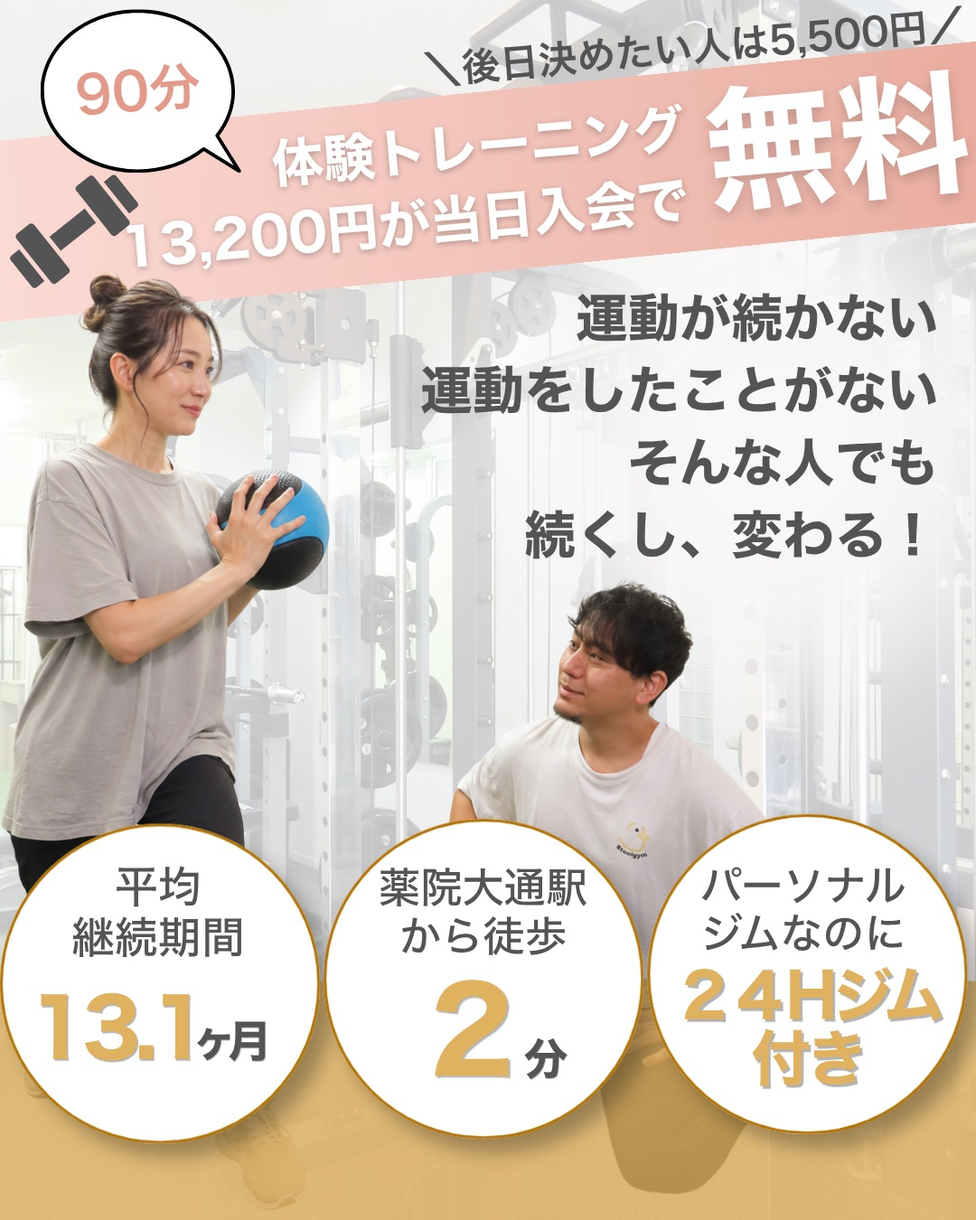
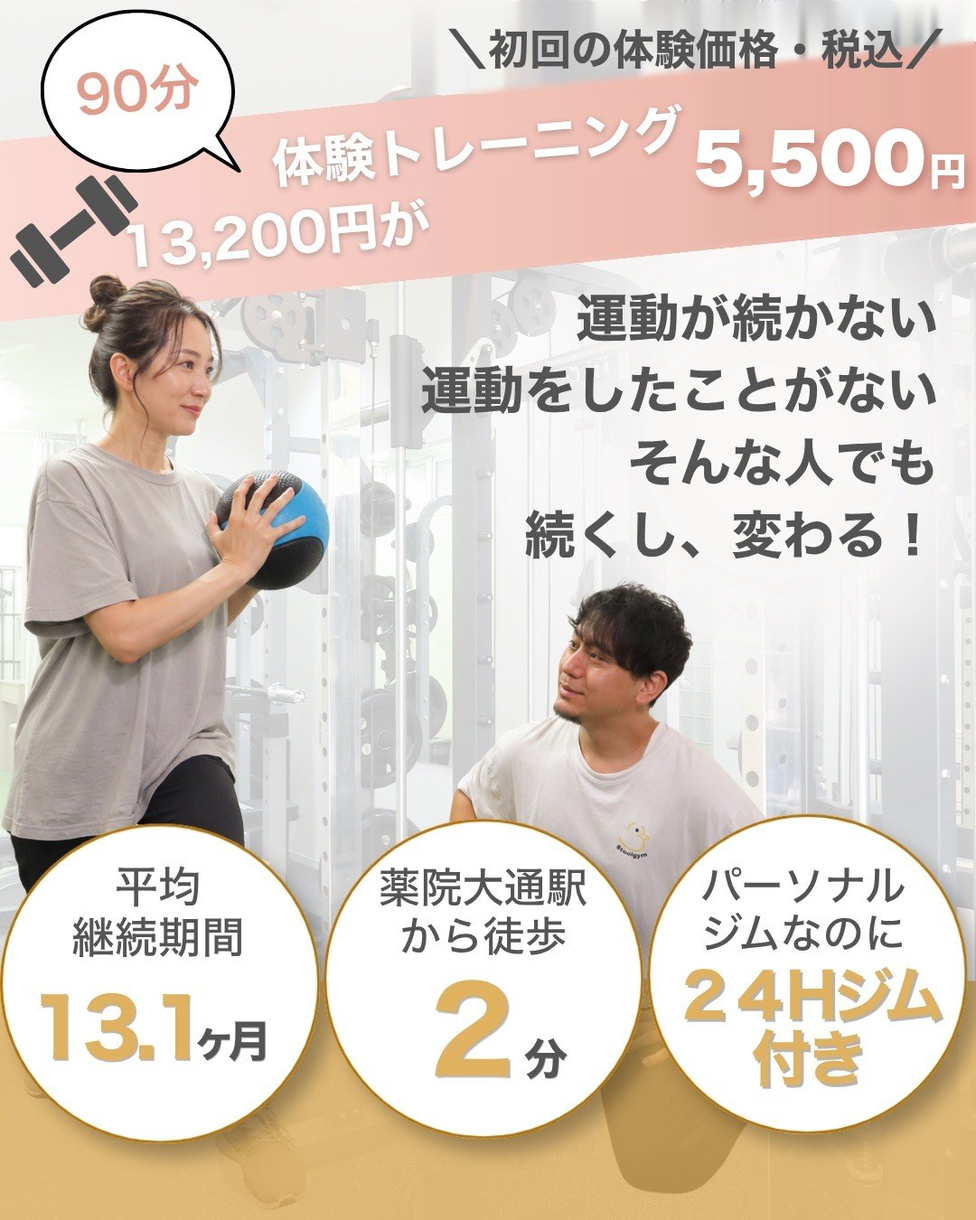
全LPから当日入会で体験0円の訴求を削除（beginner FV画像の帯も初回5,500円に差し替え）

Changed region(s): [[0.4278, 0.0, 1.0, 0.2178]]

diff --git a/posture-yakuin.html b/posture-yakuin.html
@@ -282,8 +282,8 @@ footer{background:#1A1A1A;padding:36px var(--sp) 20px;text-align:center}
 
 <!-- ══ STICKY BAR ══ -->
 <div id="sbar">
-  <a href="https://instagram.kanzashi.com/l/1uyf95d0BYo/kirei" class="sbar-btn">体験を予約する（当日入会で0円）</a>
-  <p class="sbar-sub">当日入会で0円 / 相談だけでもOK</p>
+  <a href="https://instagram.kanzashi.com/l/1uyf95d0BYo/kirei" class="sbar-btn">体験を予約する（90分 5,500円）</a>
+  <p class="sbar-sub">初回90分 5,500円 / 相談だけでもOK</p>
 </div>
 
 <!-- ══ NAV ══ -->
@@ -314,7 +314,7 @@ footer{background:#1A1A1A;padding:36px var(--sp) 20px;text-align:center}
       <a href="#offer">体験について <span>→</span></a>
       <a href="#access">アクセス <span>→</span></a>
     </nav>
-    <a href="https://instagram.kanzashi.com/l/1uyf95d0BYo/kirei" class="btn-main" style="margin-bottom:12px">体験を予約する（当日入会で0円）</a>
+    <a href="https://instagram.kanzashi.com/l/1uyf95d0BYo/kirei" class="btn-main" style="margin-bottom:12px">体験を予約する（90分 5,500円）</a>
   </div>
 </div>
 <div class="drawer-overlay" id="drawerOverlay"></div>
@@ -328,7 +328,7 @@ footer{background:#1A1A1A;padding:36px var(--sp) 20px;text-align:center}
       <div class="hero-trust-item"><strong>91%</strong><span>体験→入会率</span></div>
       <div class="hero-trust-item"><strong>14<span style="font-size:12px">ヶ月</span></strong><span>平均継続期間</span></div>
     </div>
-    <a href="https://instagram.kanzashi.com/l/1uyf95d0BYo/kirei" class="btn-main" style="max-width:360px" id="heroCta">体験を予約する（当日入会で0円）</a>
+    <a href="https://instagram.kanzashi.com/l/1uyf95d0BYo/kirei" class="btn-main" style="max-width:360px" id="heroCta">体験を予約する（90分 5,500円）</a>
     <p class="btn-sub">無理な勧誘なし　／　当日キャンセルOK　／　相談だけでもOK</p>
     <span class="scroll-arrow" aria-hidden="true">&#8595;</span>
   </div>
@@ -385,7 +385,7 @@ footer{background:#1A1A1A;padding:36px var(--sp) 20px;text-align:center}
       <p class="story-close">そう感じているのは、<br>あなただけじゃありません。</p>
     </div>
     <div style="margin-top:40px;text-align:center">
-      <a href="https://instagram.kanzashi.com/l/1uyf95d0BYo/kirei" class="btn-main">体験を予約する（当日入会で0円）</a>
+      <a href="https://instagram.kanzashi.com/l/1uyf95d0BYo/kirei" class="btn-main">体験を予約する（90分 5,500円）</a>
       <p style="font-size:11px;color:#999999;text-align:center;margin-top:6px">予約フォームに入力するだけ（約1分）→ 日時確定 → 来店</p>
       <p class="btn-sub">無理な勧誘なし　／　当日キャンセルOK　／　相談だけでもOK</p>
     </div>
@@ -605,7 +605,7 @@ footer{background:#1A1A1A;padding:36px var(--sp) 20px;text-align:center}
   <div class="cta-block-inner">
     <p class="urgency-label">毎月5名限定・体験受付中</p>
     <p style="font-size:11px;color:#999;text-align:center;margin:0 auto 16px;letter-spacing:0.02em;">無理な勧誘なし &nbsp;／&nbsp; 当日キャンセルOK &nbsp;／&nbsp; 相談だけでもOK</p>
-    <a href="https://instagram.kanzashi.com/l/1uyf95d0BYo/kirei" class="btn-main">体験を予約する（当日入会で0円）</a>
+    <a href="https://instagram.kanzashi.com/l/1uyf95d0BYo/kirei" class="btn-main">体験を予約する（90分 5,500円）</a>
     <p style="font-size:11px;color:#999999;text-align:center;margin-top:6px">予約フォームに入力するだけ（約1分）→ 日時確定 → 来店</p>
   </div>
 </div>
@@ -693,10 +693,6 @@ footer{background:#1A1A1A;padding:36px var(--sp) 20px;text-align:center}
         <span style="font-size:0.85rem;color:#999;">（税込）</span>
       </div>
     </div>
-    <div class="offer-free">
-      さらに、<strong>体験当日にご入会の方は</strong><br>
-      体験トレーニング料金（5,500円）が<br><strong>全額0円</strong>になります。
-    </div>
     <div class="offer-checks">
       <div class="offer-check">90分マンツーマン指導</div>
       <div class="offer-check">初回で姿勢分析・動作チェックあり</div>
@@ -707,7 +703,7 @@ footer{background:#1A1A1A;padding:36px var(--sp) 20px;text-align:center}
       <div class="offer-check">相談だけでもOK</div>
     </div>
     <p style="font-size:11px;color:#999;text-align:center;margin:0 auto 16px;letter-spacing:0.02em;">無理な勧誘なし &nbsp;／&nbsp; 当日キャンセルOK &nbsp;／&nbsp; 相談だけでもOK</p>
-    <a href="https://instagram.kanzashi.com/l/1uyf95d0BYo/kirei" class="btn-main">体験を予約する（当日入会で0円）</a>
+    <a href="https://instagram.kanzashi.com/l/1uyf95d0BYo/kirei" class="btn-main">体験を予約する（90分 5,500円）</a>
     <p style="font-size:11px;color:#999999;text-align:center;margin-top:6px">予約フォームに入力するだけ（約1分）→ 日時確定 → 来店</p>
   </div>
 </section>
@@ -754,7 +750,7 @@ footer{background:#1A1A1A;padding:36px var(--sp) 20px;text-align:center}
         <div class="flow-body">
           <span class="flow-time">5分</span>
           <p class="flow-ttl">今後のご提案</p>
-          <p class="flow-desc">体験を踏まえて、最適なコースや通い方をご提案します。当日ご入会の場合、体験料は全額無料になります。</p>
+          <p class="flow-desc">体験を踏まえて、最適なコースや通い方をご提案します。合わないと感じたら、そのままお帰りいただいて大丈夫です。こちらから引き止めることはしません。</p>
         </div>
       </div>
     </div>
@@ -841,7 +837,7 @@ footer{background:#1A1A1A;padding:36px var(--sp) 20px;text-align:center}
     <p class="closing-sub">変わりたいと思ったその日が、始め時です。<br>まず90分、体験してみてください。</p>
     <p style="background:#FCEBEB;color:#A32D2D;font-size:12px;font-weight:500;padding:6px 16px;border-radius:999px;display:inline-block;margin-bottom:16px;text-align:center">今月の体験枠 残り5名</p>
     <a href="https://instagram.kanzashi.com/l/1uyf95d0BYo/kirei" class="btn-white">今すぐ予約する →</a>
-    <p class="closing-note">当日入会で0円 / 毎月5名限定 / 相談だけでもOK</p>
+    <p class="closing-note">初回90分 5,500円 / 相談だけでもOK</p>
   </div>
 </section>
 
@@ -863,7 +859,7 @@ footer{background:#1A1A1A;padding:36px var(--sp) 20px;text-align:center}
       <dt class="access-dt">電話</dt>
       <dd class="access-dd"><a href="tel:0926000296">092-600-0296</a></dd>
     </dl>
-    <a href="https://instagram.kanzashi.com/l/1uyf95d0BYo/kirei" class="btn-main">体験を予約する（当日入会で0円）</a>
+    <a href="https://instagram.kanzashi.com/l/1uyf95d0BYo/kirei" class="btn-main">体験を予約する（90分 5,500円）</a>
   </div>
 </section>
 

diff --git a/5toolgym_lp_yakuin_sasaru.html b/5toolgym_lp_yakuin_sasaru.html
@@ -4,7 +4,7 @@
 <meta charset="UTF-8">
 <meta name="viewport" content="width=device-width, initial-scale=1.0">
 <title>5toolgym 薬院店 | パーソナルトレーニングジム 福岡</title>
-<meta name="description" content="福岡・薬院のパーソナルジム5toolgym。筋肉を鍛えるのではなく、動きを鍛える。体型・姿勢・不調がまとめて整うトレーニング。体験90分¥5,500、当日入会で無料。薬院大通駅徒歩2分。">
+<meta name="description" content="福岡・薬院のパーソナルジム5toolgym。筋肉を鍛えるのではなく、動きを鍛える。体型・姿勢・不調がまとめて整うトレーニング。体験90分¥5,500。薬院大通駅徒歩2分。">
 <meta property="og:type" content="website">
 <meta property="og:title" content="5toolgym 薬院店 | 動きを鍛える、パーソナルジム 福岡">
 <meta property="og:description" content="食事制限でも激しい運動でもない。体の使い方を変えることで、体型・姿勢・不調がまとめて整っていく。体験90分¥5,500。">
@@ -792,13 +792,13 @@ section { padding: 88px 0; }
 <div class="drawer-overlay" id="drawerOverlay"></div>
 
 <div class="sticky-bar">
-  <p>体験セッション 90分<span>当日入会で無料</span></p>
+  <p>体験セッション 90分<span>¥5,500（税込）</span></p>
   <a href="https://instagram.kanzashi.com/l/1uyf95d0BYo/kirei?utm_source=lp&utm_medium=cta&utm_campaign=yakuin_sasaru&utm_content=stickybar" onclick="if(window.fbq)fbq('track','Lead');gtag('event','cta_click',{link_position:'sticky'})" class="sticky-btn">今すぐ予約 ¥5,500</a>
 </div>
 
 <!-- スマホ用下部固定CTA（768px以下のみ表示） -->
 <div class="sticky-cta-mobile">
-  <p>体験90分 ¥5,500<span>当日入会で無料になります</span></p>
+  <p>体験90分 ¥5,500<span>税込・無理な勧誘なし</span></p>
   <a href="https://instagram.kanzashi.com/l/1uyf95d0BYo/kirei?utm_source=lp&utm_medium=cta&utm_campaign=yakuin_sasaru&utm_content=stickybar" onclick="if(window.fbq)fbq('track','Lead');gtag('event','cta_click',{link_position:'sticky_mobile'})" class="sticky-cta-mobile-btn">体験を予約する</a>
 </div>
 
@@ -818,7 +818,7 @@ section { padding: 88px 0; }
       <div class="hero-trust-item"><strong>14<small>ヶ月</small></strong><span>平均継続期間</span></div>
     </div>
     <a href="https://instagram.kanzashi.com/l/1uyf95d0BYo/kirei?utm_source=lp&utm_medium=cta&utm_campaign=yakuin_sasaru&utm_content=fv" onclick="if(window.fbq)fbq('track','Lead');gtag('event','cta_click',{link_position:'fv'})" class="btn-coral">空き状況を確認する →</a>
-    <span class="btn-note">¥5,500 ／ 当日入会で無料になります</span>
+    <span class="btn-note">¥5,500（税込）／ 無理な勧誘なし</span>
     <p class="fv-micro">予約は30秒で完了 ／ 無理な勧誘はありません ／ 体験だけのご利用もOK</p>
   </div>
 </section>
@@ -1053,7 +1053,7 @@ section { padding: 88px 0; }
 <div class="cta-mid">
   <div class="cta-mid-card">
     <h3>体験セッション（90分）</h3>
-    <p>¥5,500 ／ 当日入会で無料になります</p>
+    <p>¥5,500（税込）／ 無理な勧誘なし</p>
     <a href="https://instagram.kanzashi.com/l/1uyf95d0BYo/kirei?utm_source=lp&utm_medium=cta&utm_campaign=yakuin_sasaru&utm_content=trust" onclick="if(window.fbq)fbq('track','Lead');gtag('event','cta_click',{link_position:'trust'})" class="btn-cta-mid">体験を予約する →</a>
     <p class="cta-micro">予約は30秒で完了 ／ 無理な勧誘はありません ／ 体験だけのご利用もOK</p>
   </div>
@@ -1252,7 +1252,7 @@ section { padding: 88px 0; }
     <div class="flow-price-box">
       <h3>体験セッション（90分）</h3>
       <p class="flow-price"><span class="flow-price-yen">¥</span>5,500</p>
-      <p class="flow-price-note">当日ご入会の場合、体験料は無料になります</p>
+      <p class="flow-price-note">合わなければ、入会しなくて大丈夫です</p>
     </div>
   </div>
 </section>
@@ -1263,7 +1263,7 @@ section { padding: 88px 0; }
 <div class="cta-mid">
   <div class="cta-mid-card">
     <h3>体験セッション（90分）</h3>
-    <p>¥5,500 ／ 当日入会で無料になります</p>
+    <p>¥5,500（税込）／ 無理な勧誘なし</p>
     <a href="https://instagram.kanzashi.com/l/1uyf95d0BYo/kirei?utm_source=lp&utm_medium=cta&utm_campaign=yakuin_sasaru&utm_content=experience" onclick="if(window.fbq)fbq('track','Lead');gtag('event','cta_click',{link_position:'experience'})" class="btn-cta-mid">体験を予約する →</a>
     <p class="cta-micro">予約は30秒で完了 ／ 無理な勧誘はありません ／ 体験だけのご利用もOK</p>
   </div>
@@ -1283,7 +1283,7 @@ section { padding: 88px 0; }
     <div class="price-experience-box">
       <span class="price-experience-label">TRIAL SESSION</span>
       <p class="price-experience-amount"><span class="price-experience-yen">¥</span>5,500</p>
-      <p class="price-experience-note">体験セッション（90分）／ 当日入会で無料になります</p>
+      <p class="price-experience-note">体験セッション（90分）／ ¥5,500（税込）</p>
     </div>
 
     <div class="price-table">
@@ -1343,7 +1343,7 @@ section { padding: 88px 0; }
 <div class="cta-mid">
   <div class="cta-mid-card">
     <h3>体験セッション（90分）</h3>
-    <p>¥5,500 ／ 当日入会で無料になります</p>
+    <p>¥5,500（税込）／ 無理な勧誘なし</p>
     <a href="https://instagram.kanzashi.com/l/1uyf95d0BYo/kirei?utm_source=lp&utm_medium=cta&utm_campaign=yakuin_sasaru&utm_content=price" onclick="if(window.fbq)fbq('track','Lead');gtag('event','cta_click',{link_position:'pricing'})" class="btn-cta-mid">このプランで体験してみる</a>
     <p class="cta-micro">予約は30秒で完了 ／ 無理な勧誘はありません ／ 体験だけのご利用もOK</p>
   </div>
@@ -1477,7 +1477,7 @@ section { padding: 88px 0; }
     <div class="cta-card">
       <h3>体験セッション（90分）</h3>
       <p class="cta-price"><span class="cta-price-yen">¥</span>5,500</p>
-      <p class="cta-price-note">当日ご入会の場合、体験料は無料になります</p>
+      <p class="cta-price-note">合わなければ、入会しなくて大丈夫です</p>
       <a href="https://instagram.kanzashi.com/l/1uyf95d0BYo/kirei?utm_source=lp&utm_medium=cta&utm_campaign=yakuin_sasaru&utm_content=final" onclick="if(window.fbq)fbq('track','Lead');gtag('event','cta_click',{link_position:'final'})" class="btn-cta">今すぐ体験を予約する</a>
     </div>
   </div>

diff --git a/beginner-yakuin.html b/beginner-yakuin.html
@@ -174,7 +174,7 @@ body.menu-open { overflow: hidden; }
 
 <div class="topbar">
   今月の体験枠 残り5名｜
-  <a href="https://instagram.kanzashi.com/l/1uyf95d0BYo/kirei">体験を予約する（当日入会で0円）</a>
+  <a href="https://instagram.kanzashi.com/l/1uyf95d0BYo/kirei">体験を予約する（90分 5,500円）</a>
 </div>
 
 <header class="header">
@@ -200,7 +200,7 @@ body.menu-open { overflow: hidden; }
 
 <section class="hero" id="top">
   <div class="hero-photo">
-    <picture><source srcset="images/beginner-hero-yakuin.webp" type="image/webp"><img src="images/beginner-hero-yakuin.jpg" fetchpriority="high" alt="5toolgym薬院店 パーソナルトレーニング 体験トレーニング90分13,200円が当日入会で無料 運動が続かない・運動をしたことがない人でも続くし変わる 平均継続期間13.1ヶ月 薬院大通駅から徒歩2分 24時間ジム付き"></picture>
+    <picture><source srcset="images/beginner-hero-yakuin.webp" type="image/webp"><img src="images/beginner-hero-yakuin.jpg" fetchpriority="high" alt="5toolgym薬院店 パーソナルトレーニング 体験トレーニング90分13,200円が5,500円 運動が続かない・運動をしたことがない人でも続くし変わる 平均継続期間13.1ヶ月 薬院大通駅から徒歩2分 24時間ジム付き"></picture>
   </div>
   <div class="hero-body">
     <h1 style="position:absolute;width:1px;height:1px;overflow:hidden;clip:rect(0 0 0 0)">続かなかったのは、あなたのせいじゃない。仕組みが、間違っていただけです。自分のさじ加減で決まる運動は、続きません。</h1>
@@ -215,7 +215,7 @@ body.menu-open { overflow: hidden; }
         <div class="hero-stat-label">平均継続期間</div>
       </div>
     </div>
-    <a href="https://instagram.kanzashi.com/l/1uyf95d0BYo/kirei" class="btn-primary">体験を予約する（当日入会で0円）</a>
+    <a href="https://instagram.kanzashi.com/l/1uyf95d0BYo/kirei" class="btn-primary">体験を予約する（90分 5,500円）</a>
     <p class="btn-note">通常¥13,200 → 初回体験¥5,500 / 90分 / 無理な勧誘なし</p>
   </div>
 </section>
@@ -420,7 +420,6 @@ body.menu-open { overflow: hidden; }
     <div class="offer-price-old">通常 ¥13,200</div>
     <div class="offer-price">¥5,500</div>
     <div class="offer-price-note">初回体験 / 90分 / 税込</div>
-    <div class="offer-zero">体験当日にご入会の方は体験料が全額0円</div>
     <ul class="offer-includes">
       <li>90分マンツーマン指導</li>
       <li>カラダの状態・動き方のチェック</li>
@@ -429,7 +428,7 @@ body.menu-open { overflow: hidden; }
       <li>無理な勧誘なし</li>
       <li>相談だけでもOK</li>
     </ul>
-    <a href="https://instagram.kanzashi.com/l/1uyf95d0BYo/kirei" class="btn-primary" style="display:block;text-align:center;">体験を予約する（当日入会で0円）</a>
+    <a href="https://instagram.kanzashi.com/l/1uyf95d0BYo/kirei" class="btn-primary" style="display:block;text-align:center;">体験を予約する（90分 5,500円）</a>
     <p class="btn-note">無理な勧誘なし ／ 当日キャンセルOK ／ 相談だけでもOK</p>
   </div>
 </section>
@@ -453,7 +452,7 @@ body.menu-open { overflow: hidden; }
     </div>
     <div class="flow-step">
       <div class="flow-num">4</div>
-      <div class="flow-content"><h3>ご提案（10分）</h3><p>体験を踏まえて最適なコースをご提案。当日ご入会の場合、体験料は全額無料になります。</p></div>
+      <div class="flow-content"><h3>ご提案（10分）</h3><p>体験を踏まえて最適なコースをご提案。合わないと感じたら、そのままお帰りいただいて大丈夫です。こちらから引き止めることはしません。</p></div>
     </div>
   </div>
 </section>
@@ -496,7 +495,7 @@ body.menu-open { overflow: hidden; }
 
 <section class="close-section">
   <p>続かなかったのは、あなたが弱かったからじゃない。<br>一人でやる運動に、続く仕組みがなかっただけです。<br><br>仕組みを変えれば、誰でも続けられます。<br>まず90分、体験してみてください。</p>
-  <a href="https://instagram.kanzashi.com/l/1uyf95d0BYo/kirei" class="btn-primary">体験を予約する（当日入会で0円）</a>
+  <a href="https://instagram.kanzashi.com/l/1uyf95d0BYo/kirei" class="btn-primary">体験を予約する（90分 5,500円）</a>
   <p class="btn-note">無理な勧誘なし ／ 当日キャンセルOK ／ 相談だけでもOK</p>
   <p class="signature">5toolgym代表 柴山 智幸</p>
 </section>

diff --git a/fatigue-yakuin.html b/fatigue-yakuin.html
@@ -155,7 +155,7 @@ body { font-family: 'Zen Kaku Gothic New', sans-serif; background: var(--black);
 
 <div class="topbar">
   今月の体験枠 残り5名｜
-  <a href="https://instagram.kanzashi.com/l/1uyf95d0BYo/kirei">体験を予約する（当日入会で0円）</a>
+  <a href="https://instagram.kanzashi.com/l/1uyf95d0BYo/kirei">体験を予約する（90分 5,500円）</a>
 </div>
 
 <header class="header">
@@ -181,7 +181,7 @@ body { font-family: 'Zen Kaku Gothic New', sans-serif; background: var(--black);
         <div class="hero-stat-label">平均継続期間</div>
       </div>
     </div>
-    <a href="https://instagram.kanzashi.com/l/1uyf95d0BYo/kirei" class="btn-primary">体験を予約する（当日入会で0円）</a>
+    <a href="https://instagram.kanzashi.com/l/1uyf95d0BYo/kirei" class="btn-primary">体験を予約する（90分 5,500円）</a>
     <p class="btn-note">通常¥13,200 → 初回体験¥5,500 / 90分 / 無理な勧誘なし</p>
   </div>
 </section>
@@ -386,7 +386,6 @@ body { font-family: 'Zen Kaku Gothic New', sans-serif; background: var(--black);
     <div class="offer-price-old">通常 ¥13,200</div>
     <div class="offer-price">¥5,500</div>
     <div class="offer-price-note">初回体験 / 90分 / 税込</div>
-    <div class="offer-zero">体験当日にご入会の方は体験料が全額0円</div>
     <ul class="offer-includes">
       <li>90分マンツーマン指導</li>
       <li>カラダの緊張・呼吸・動作のチェック</li>
@@ -395,7 +394,7 @@ body { font-family: 'Zen Kaku Gothic New', sans-serif; background: var(--black);
       <li>無理な勧誘なし</li>
       <li>相談だけでもOK</li>
     </ul>
-    <a href="https://instagram.kanzashi.com/l/1uyf95d0BYo/kirei" class="btn-primary" style="display:block;text-align:center;">体験を予約する（当日入会で0円）</a>
+    <a href="https://instagram.kanzashi.com/l/1uyf95d0BYo/kirei" class="btn-primary" style="display:block;text-align:center;">体験を予約する（90分 5,500円）</a>
     <p class="btn-note">無理な勧誘なし ／ 当日キャンセルOK ／ 相談だけでもOK</p>
   </div>
 </section>
@@ -419,7 +418,7 @@ body { font-family: 'Zen Kaku Gothic New', sans-serif; background: var(--black);
     </div>
     <div class="flow-step">
       <div class="flow-num">4</div>
-      <div class="flow-content"><h3>ご提案（10分）</h3><p>体験を踏まえて最適なコースをご提案。当日ご入会の場合、体験料は全額無料になります。</p></div>
+      <div class="flow-content"><h3>ご提案（10分）</h3><p>体験を踏まえて最適なコースをご提案。合わないと感じたら、そのままお帰りいただいて大丈夫です。こちらから引き止めることはしません。</p></div>
     </div>
   </div>
 </section>
@@ -462,7 +461,7 @@ body { font-family: 'Zen Kaku Gothic New', sans-serif; background: var(--black);
 
 <section class="close-section">
   <p>疲れているのは、意志が弱いからでも、<br>年齢のせいでもありません。<br><br>カラダの状態を変えれば、回復力は戻ります。<br>体験の90分で、その感覚を持って帰ってください。</p>
-  <a href="https://instagram.kanzashi.com/l/1uyf95d0BYo/kirei" class="btn-primary">体験を予約する（当日入会で0円）</a>
+  <a href="https://instagram.kanzashi.com/l/1uyf95d0BYo/kirei" class="btn-primary">体験を予約する（90分 5,500円）</a>
   <p class="btn-note">無理な勧誘なし ／ 当日キャンセルOK ／ 相談だけでもOK</p>
   <p class="signature">5toolgym代表 柴山 智幸</p>
 </section>

diff --git a/muscle-yakuin.html b/muscle-yakuin.html
@@ -180,7 +180,7 @@ body { font-family: 'Zen Kaku Gothic New', sans-serif; background: var(--black);
 
 <div class="topbar">
   今月の体験枠 残り5名｜
-  <a href="https://instagram.kanzashi.com/l/1uyf95d0BYo/kirei">体験を予約する（当日入会で0円）</a>
+  <a href="https://instagram.kanzashi.com/l/1uyf95d0BYo/kirei">体験を予約する（90分 5,500円）</a>
 </div>
 
 <header class="header">
@@ -206,7 +206,7 @@ body { font-family: 'Zen Kaku Gothic New', sans-serif; background: var(--black);
       <div class="hero-stat-label">平均継続期間</div>
     </div>
   </div>
-  <a href="https://instagram.kanzashi.com/l/1uyf95d0BYo/kirei" class="btn-primary">体験を予約する（当日入会で0円）</a>
+  <a href="https://instagram.kanzashi.com/l/1uyf95d0BYo/kirei" class="btn-primary">体験を予約する（90分 5,500円）</a>
   <p class="btn-note">通常¥13,200 → 初回体験¥5,500 / 90分 / 無理な勧誘なし</p>
 </section>
 
@@ -420,7 +420,6 @@ body { font-family: 'Zen Kaku Gothic New', sans-serif; background: var(--black);
     <div class="offer-price-old">通常 ¥13,200</div>
     <div class="offer-price">¥5,500</div>
     <div class="offer-price-note">初回体験 / 90分 / 税込</div>
-    <div class="offer-zero">体験当日にご入会の方は体験料が全額0円</div>
     <ul class="offer-includes">
       <li>90分マンツーマン指導</li>
       <li>動作チェック・カラダのクセの分析</li>
@@ -429,7 +428,7 @@ body { font-family: 'Zen Kaku Gothic New', sans-serif; background: var(--black);
       <li>無理な勧誘なし</li>
       <li>相談だけでもOK</li>
     </ul>
-    <a href="https://instagram.kanzashi.com/l/1uyf95d0BYo/kirei" class="btn-primary" style="display:block;text-align:center;">体験を予約する（当日入会で0円）</a>
+    <a href="https://instagram.kanzashi.com/l/1uyf95d0BYo/kirei" class="btn-primary" style="display:block;text-align:center;">体験を予約する（90分 5,500円）</a>
     <p class="btn-note">無理な勧誘なし ／ 当日キャンセルOK ／ 相談だけでもOK</p>
   </div>
 </section>
@@ -454,7 +453,7 @@ body { font-family: 'Zen Kaku Gothic New', sans-serif; background: var(--black);
     </div>
     <div class="flow-step">
       <div class="flow-num">4</div>
-      <div class="flow-content"><h3>ご提案（10分）</h3><p>体験を踏まえて最適なコースをご提案。当日ご入会の場合、体験料は全額無料になります。</p></div>
+      <div class="flow-content"><h3>ご提案（10分）</h3><p>体験を踏まえて最適なコースをご提案。合わないと感じたら、そのままお帰りいただいて大丈夫です。こちらから引き止めることはしません。</p></div>
     </div>
   </div>
 </section>
@@ -485,7 +484,7 @@ body { font-family: 'Zen Kaku Gothic New', sans-serif; background: var(--black);
 <!-- CLOSE -->
 <section class="close-section">
   <p>努力は間違っていません。<br>必要な要素が、一つ抜けているだけです。<br><br>体験の90分で、その「一つ」を一緒に見つけましょう。<br>変わるイメージを持って帰ってください。</p>
-  <a href="https://instagram.kanzashi.com/l/1uyf95d0BYo/kirei" class="btn-primary">体験を予約する（当日入会で0円）</a>
+  <a href="https://instagram.kanzashi.com/l/1uyf95d0BYo/kirei" class="btn-primary">体験を予約する（90分 5,500円）</a>
   <p class="btn-note">無理な勧誘なし ／ 当日キャンセルOK ／ 相談だけでもOK</p>
   <p class="signature">5toolgym代表 柴山 智幸</p>
 </section>

diff --git a/18yo-5toolgym.html b/18yo-5toolgym.html
@@ -940,8 +940,7 @@
   <div class="container">
     <h2>料金について。</h2>
     
-    <p>体験トレーニング：¥5,500<br>
-    ※当日ご入会の場合、体験費¥5,500はいただきません</p>
+    <p>体験トレーニング：¥5,500（税込・90分）</p>
     
     <p>入会金：¥11,000</p>
     

diff --git a/semi-athlete-yakuin.html b/semi-athlete-yakuin.html
@@ -930,8 +930,7 @@
   <div class="container">
     <h2>料金について。</h2>
 
-    <p>体験セッション：¥5,500<br>
-    ※当日ご入会の場合、体験費¥5,500はいただきません</p>
+    <p>体験セッション：¥5,500（税込・90分）</p>
 
     <p>入会金：¥11,000</p>
 
